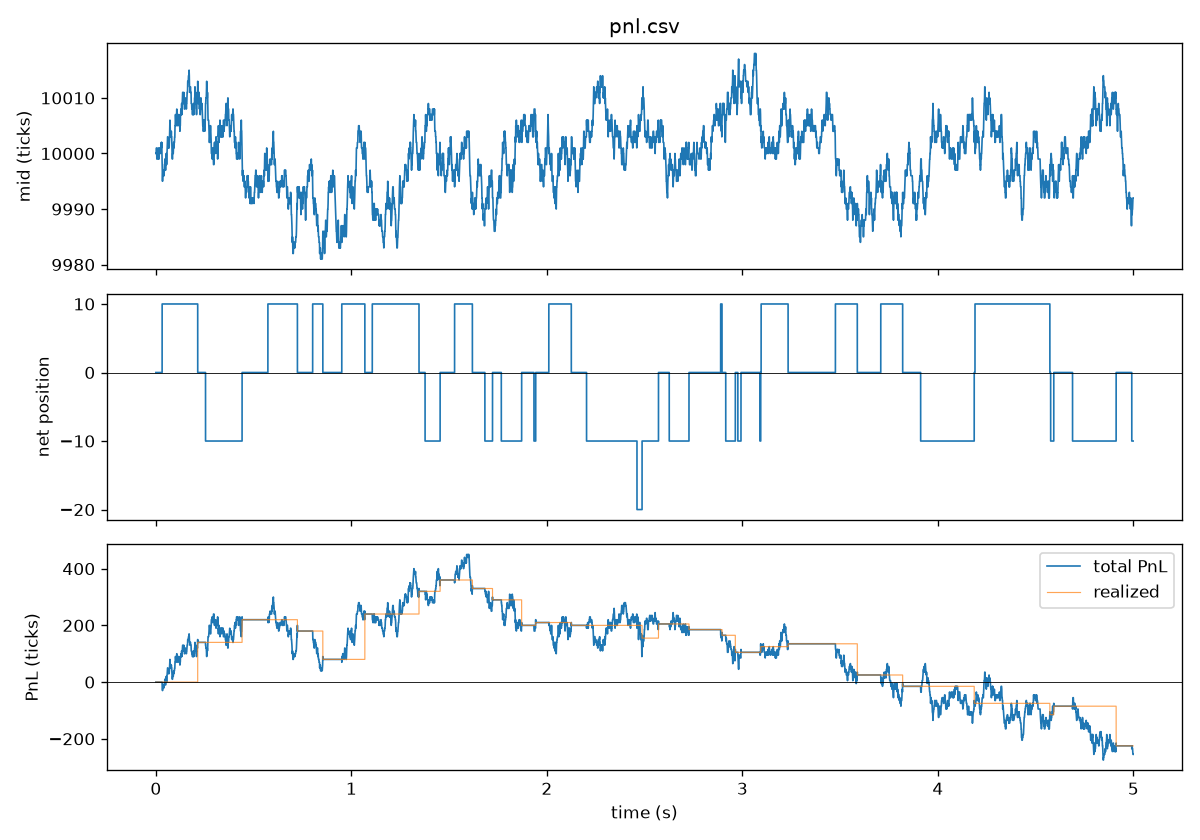
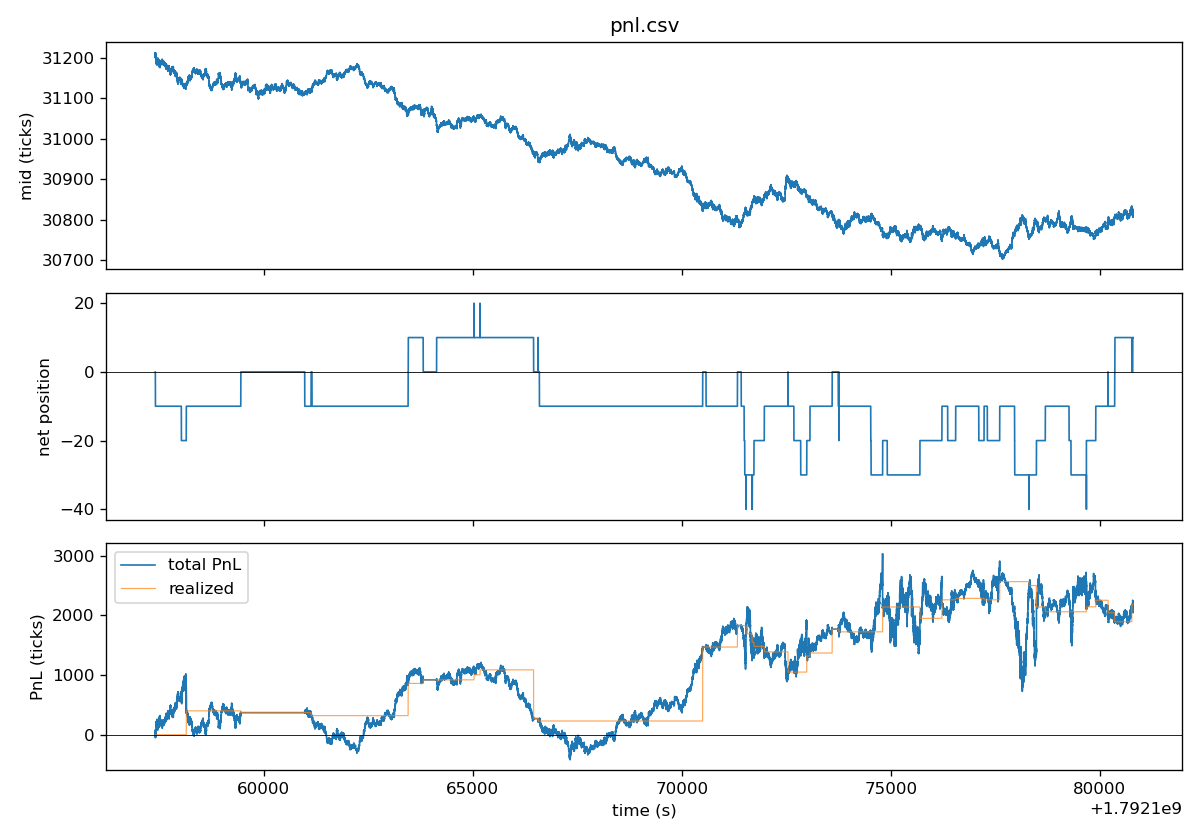
lowlat-mm page: real ES run from Databento instead of the generated feed

diff --git a/src/features/projects/content.ts b/src/features/projects/content.ts
@@ -378,27 +378,28 @@ export const projectsContent = {
     description:
       'A C++20 event-driven market-making and execution engine: order book, OMS, pre-trade risk, exchange simulator, deterministic replay backtest.',
     headline:
-      'A deterministic single-queue event loop with explicit latency and fill models, built so that a naive quoting strategy loses money for the right reasons.',
+      'A deterministic event-driven engine in C++20, backtested on a real day of CME E-mini S&P 500 order-book data from Databento.',
     imageAltText: 'lowlat-mm event-driven engine architecture',
     categoryText: 'Systems / C++',
     dateText: 'June 2026',
     detailedDescription:
-      'A modular C++20 prototype of the patterns found in a production market-making stack: a top-of-book-plus-depth order book, a CSV market-data feed, an OMS with position tracking and P&L attribution, a pre-trade risk gate with a kill switch, an exchange simulator with acknowledgement and fill latency, an inventory-aware market-maker, and a replay backtest driver on a single timestamp-ordered event bus. 30 Catch2 test cases, 119 assertions. It is a learning and portfolio piece, not an HFT system, and the README says so.',
+      'A modular C++20 prototype of the patterns found in a production market-making stack: a top-of-book-plus-depth order book, a market-data feed, an OMS with position tracking and P&L attribution, a pre-trade risk gate with a kill switch, an exchange simulator with acknowledgement and fill latency, an inventory-aware market-maker, and a replay backtest driver on a single timestamp-ordered event bus. 30 Catch2 test cases, 119 assertions. A learning piece, not an HFT system.',
     whyItMatters:
       'Market-making economics are decided by fill assumptions, latency and adverse selection, not by the quoting formula. An engine whose modules have clean boundaries lets each of those be changed independently and tested, which is what makes the result of any strategy experiment interpretable.',
     methodology: [
       'std::variant event types dispatched through a deterministic priority queue; strategy-to-exchange and exchange-to-strategy latency are modelled explicitly and re-scheduled by the driver.',
       'Order book with top-of-book and depth, OMS state machine with acknowledgement, partial fill, cancel and rejection paths, and position and P&L attribution in ticks.',
       'Pre-trade risk gate on position, order size, open quantity and drawdown with a kill switch; exchange simulator with marketable and passive fill logic.',
-      'Inventory-skewed market-maker with configurable half-spread, quote size and requote threshold; synthetic feed generators (random walk, stable, oscillating) and a PnL/inventory plotter.',
+      'Inventory-skewed market-maker with configurable half-spread, quote size and requote threshold, run on one regular-hours session of ESZ6 top of book from Databento (8.4 million book updates).',
     ],
     findings: [
-      'On the random-walk feed the default strategy loses money by construction, to adverse selection; the engine reports it rather than hiding it, which is the point of the exercise.',
+      'On ESZ6 on 16 Oct 2026 it made about US$26,300 with a US$28,900 max drawdown. Most of that is direction: ES fell about 100 points and the book was net short for most of the day.',
+      '77 fills from 556,508 orders. Quotes sit two ticks from mid while the touch is one tick wide 94% of the time, so most fills come when the market runs through a stale quote.',
       'The unit-test suite covers the order book, OMS, risk gate, simulator and strategy (30 cases, 119 assertions) and passes with clang++ on macOS and g++ on Linux.',
     ],
     caveats: [
-      'Educational scope: synthetic top-of-book feeds, no queue-position model, no real exchange protocol, no production latency engineering.',
-      'A queue-aware extension on real CME market-by-order data is planned and blocked on a paid data pull; it is not part of this repository.',
+      'Fills on touch with no queue position. The touch held a median of about 25 contracts that day, all ahead of a new order, so the PnL is optimistic.',
+      'One day, one contract, no fees, and a requote rate no exchange would allow. Next: fill only on trade prints, with queue position from market-by-order data.',
     ],
     keyFeatures: {},
     galleryImages: {
@@ -408,9 +409,9 @@ export const projectsContent = {
           'Event-driven module pipeline: market data, order book, strategy, OMS, risk, simulator, backtest, on one timestamp-ordered bus.',
       },
       pnl_sample: {
-        alt: 'Sample backtest: mid price, net position and PnL on the random-walk feed',
+        alt: 'ESZ6 backtest on 16 Oct 2026: mid, net position and PnL',
         caption:
-          'Sample run on the bundled random-walk feed with the default config (5,000 events, 53 fills): mid, net position and total PnL in ticks. The strategy loses to adverse selection, as a naive quoter on a random walk should.',
+          'One regular-hours session of ESZ6 (8.4 million top-of-book updates, 77 fills): mid, net position and PnL.',
       },
     },
     challenges:

diff --git a/src/features/projects/service.ts b/src/features/projects/service.ts
@@ -300,7 +300,7 @@ const projectsListUnsorted: Array<ProjectData> = [
       { label: 'Engine', value: 'C++20, event-driven' },
       { label: 'Unit tests', value: '30 cases, 119 assertions' },
       { label: 'Latency model', value: 'explicit, both directions' },
-      { label: 'Sample run on a random walk', value: 'loses, by design' },
+      { label: 'Data', value: 'one day of CME ES, Databento' },
     ],
     keyFeatures: [],
     galleryImages: [
